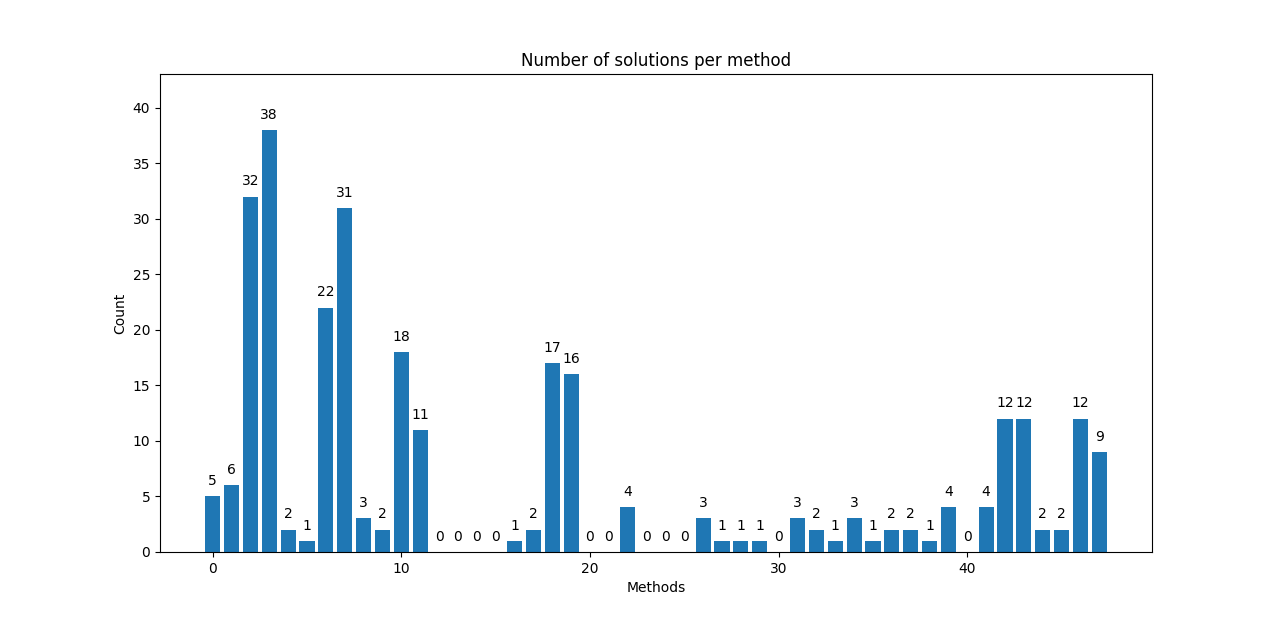
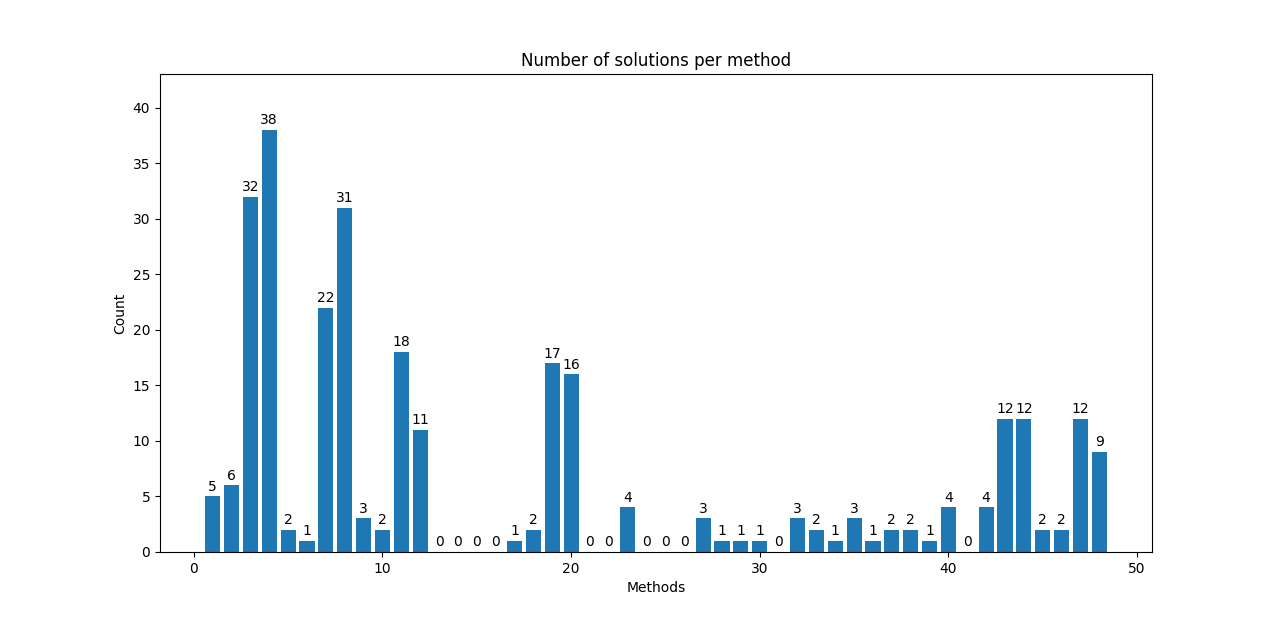
change x axis range and regenerate main images

diff --git a/mimic3/algos/utils.py b/mimic3/algos/utils.py
@@ -307,7 +307,7 @@ class Evaluation:
                 dict_['number_of_final_solutions'])
 
         # stacked chart for rewards
-        x_axis = list(range(len(summary)))
+        x_axis = list(range(1,len(summary)+1))
         width = 0.5
         _, ax = plt.subplots()
         bottom = np.zeros(len(summary))
@@ -320,7 +320,7 @@ class Evaluation:
             bottom += average_max_reward
 
         y_offset = 30
-        for method, sum_ in enumerate(vis_summary_dict['reward_sum']):
+        for method, sum_ in enumerate(vis_summary_dict['reward_sum'],1):
             ax.text(method, sum_ + y_offset, round(sum_),
                     ha='center', rotation='vertical')
 
@@ -336,8 +336,8 @@ class Evaluation:
         # Number of solutions per method
         _, ax = plt.subplots()
         ax.bar(x_axis, vis_summary_dict['solutions_count'])
-        for method, count in enumerate(vis_summary_dict['solutions_count']):
-            ax.text(method, count + 1, round(count), ha='center')
+        for method, count in enumerate(vis_summary_dict['solutions_count'],1):
+            ax.text(method, count + 0.5, round(count), ha='center')
 
         ax.set_ylim(top=max(vis_summary_dict['solutions_count'])+5)
         ax.set_title("Number of solutions per method")
@@ -350,7 +350,7 @@ class Evaluation:
         with open("json_files/classification_results.json") as file:
             summary = json.load(file)
 
-        x_axis = list(range(len(summary)))
+        x_axis = list(range(1,len(summary)+1))
         y_axis = []
         for result in summary:
             # append f scores
@@ -358,9 +358,9 @@ class Evaluation:
 
         _, ax = plt.subplots()
         ax.bar(x_axis, y_axis)
-        for method, f_score in enumerate(y_axis):
+        for method, f_score in enumerate(y_axis,1):
             ax.text(method, f_score+0.005,
-                    f"{round(f_score*100)}%", ha='center')
+                    f"{round(f_score,2)}", ha='center')
 
         ax.set_title("F-score per method")
         ax.set_ylabel('F-score')
